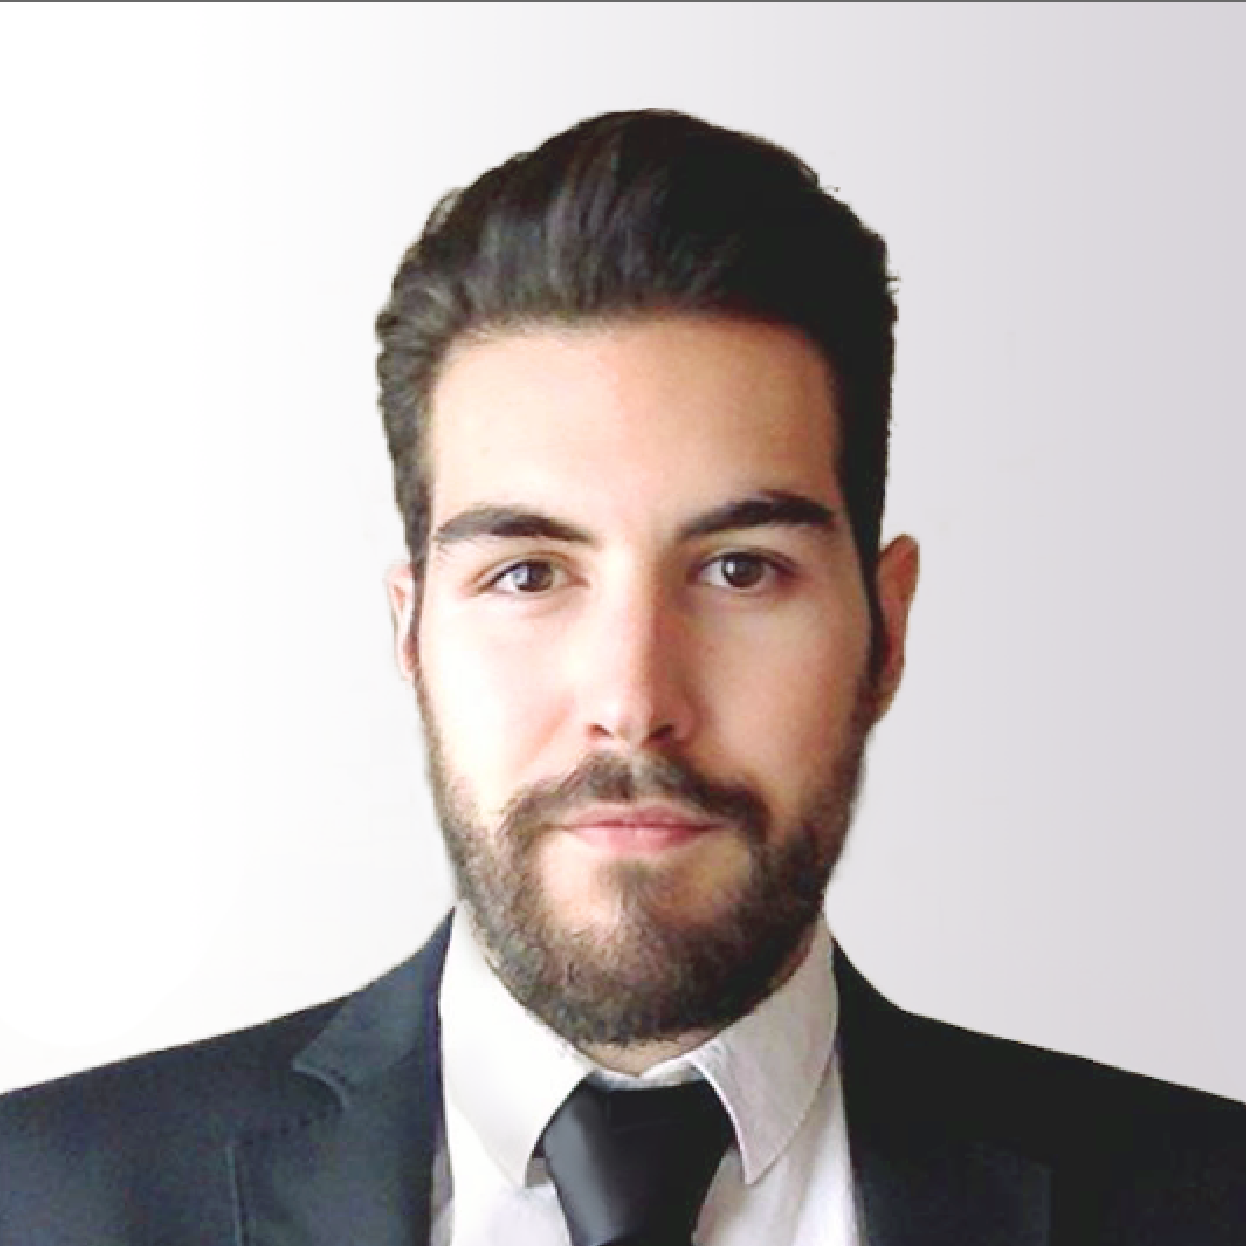
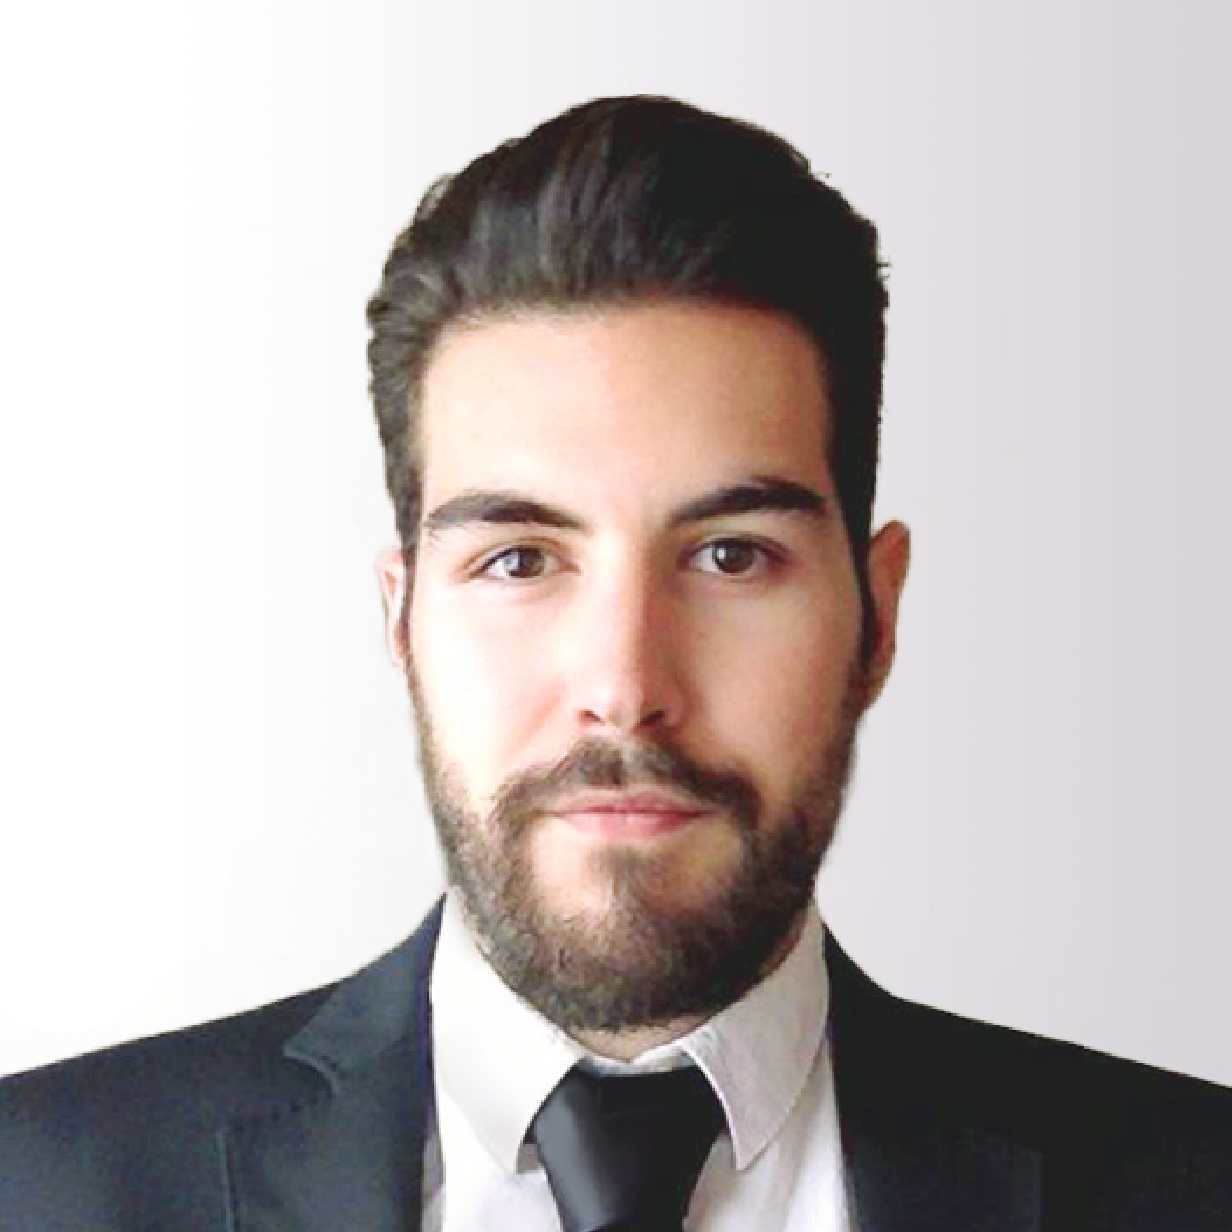
Resize 2

diff --git a/about.md b/about.md
@@ -3,7 +3,7 @@ layout: page
 title: Sobre mí
 permalink: /about/
 ---
-<div> <img src="/images/dani.png" alt="dani" style="width:150px; float:left; margin: 10px;"/>
+<div> <img src="/images/dani.png" alt="dani" style="width:200px; float:left; margin: 10px; border-radius: 50%;"/>
 
 Soy Ingeniero Superior de Telecomunicaciones con varios años de experiencia en grandes multinacionales como Telefónica I+D, Bosch, Citroën o Aenor. Estos años me han servido para aprender las bases del trabajo en equipo y de la innovación tecnológica.
 </div>
